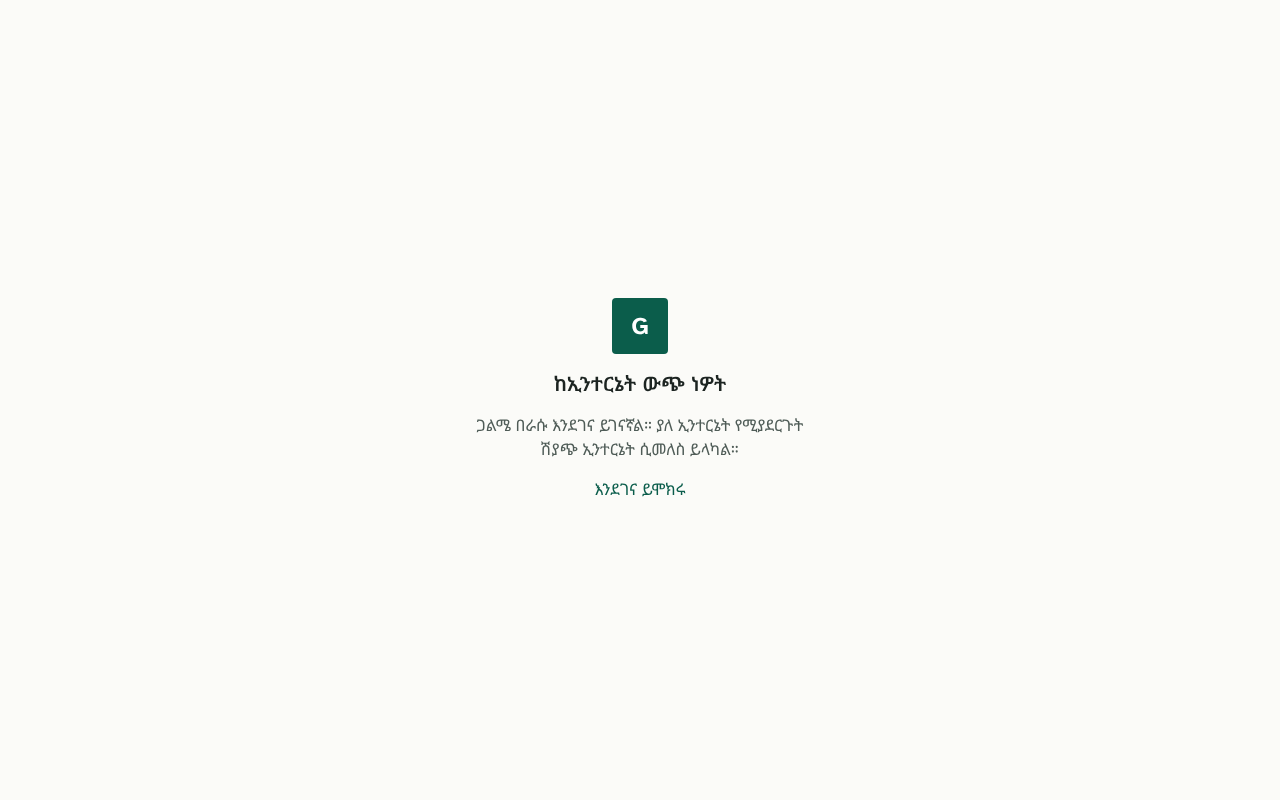
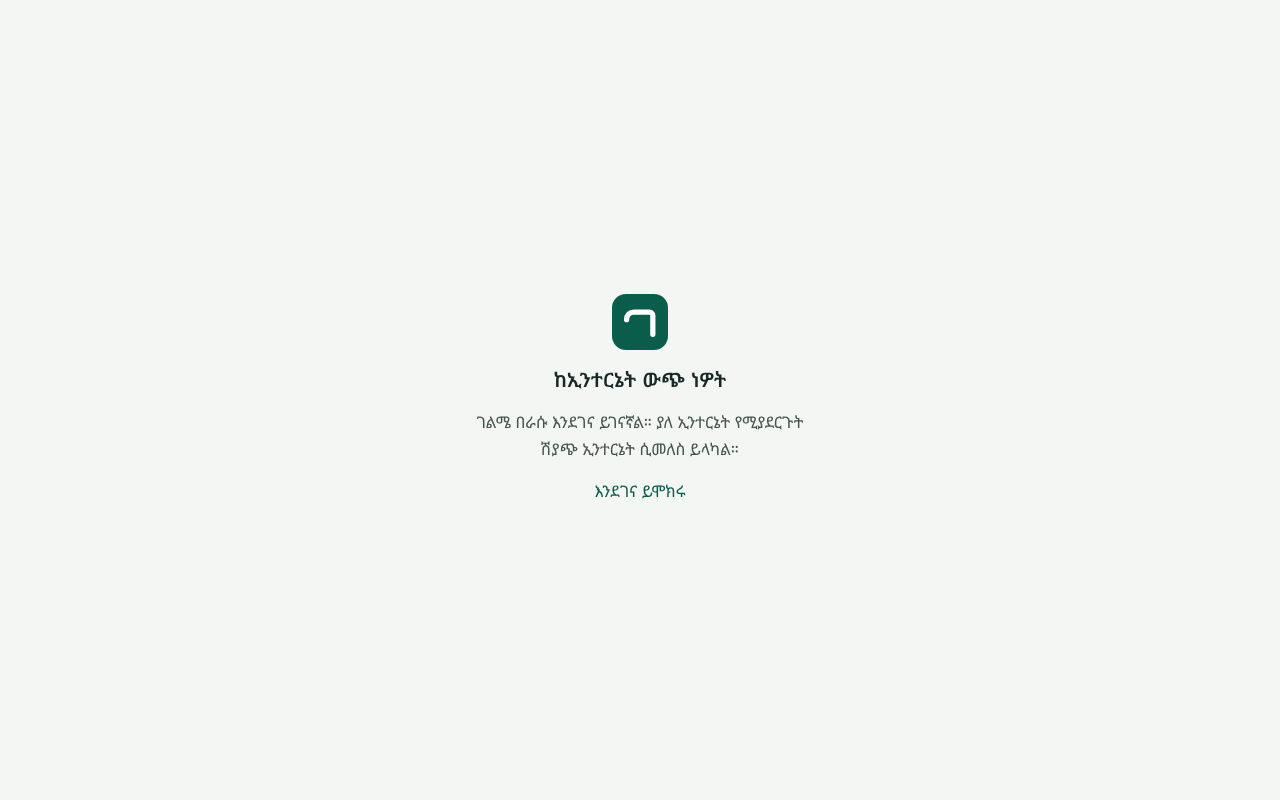
Refine the mark to read as ገ; refresh screenshots

Changed region(s): [[0.375, 0.375, 0.625, 0.5625], [0.4688, 0.5938, 0.5312, 0.625]]

diff --git a/src/components/galmee/brand.tsx b/src/components/galmee/brand.tsx
@@ -1,9 +1,9 @@
 import { cn } from "@/lib/utils";
 
 /**
- * The Galmee mark: an abstract ገ drawn as a counter — a top bar standing on
- * two legs, the left one hooked. Same geometry in every Galmee app; only the
- * tile colour (--trade via bg-primary) changes.
+ * The Galmee mark: the letter ገ reduced to one stroke — the left curl, the
+ * bar, the leg. Same geometry in every Galmee app; only the tile colour
+ * (--trade via bg-primary) changes.
  */
 export function GalmeeMark({ className, inverse = false }: { className?: string; inverse?: boolean }) {
   return (
@@ -13,11 +13,13 @@ export function GalmeeMark({ className, inverse = false }: { className?: string;
       className={cn("size-8 shrink-0", inverse ? "text-primary" : "text-primary-foreground", className)}
     >
       <rect width="48" height="48" rx="12" className={inverse ? "fill-primary-foreground" : "fill-primary"} />
-      <g fill="none" stroke="currentColor" strokeWidth="4.5" strokeLinecap="round">
-        <path d="M13 16h22" />
-        <path d="M33 16v18" />
-        <path d="M19 16v11c0 3.5-2 6-5.5 6.5" />
-      </g>
+      <path
+        d="M12.5 22c0-4 2.5-6.5 6.5-6.5h13a3 3 0 0 1 3 3v16"
+        fill="none"
+        stroke="currentColor"
+        strokeWidth="4.5"
+        strokeLinecap="round"
+      />
     </svg>
   );
 }
